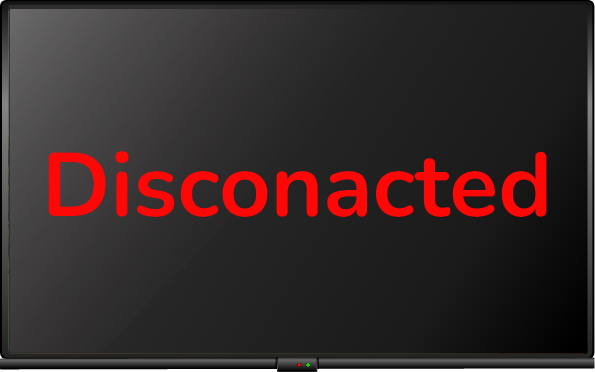
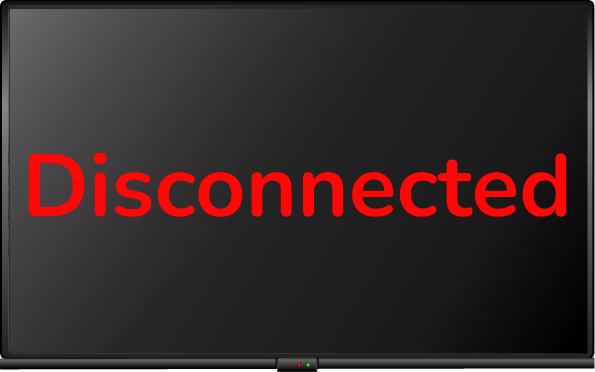
LED image and swal text update

Changed region(s): [[0.0303, 0.3844, 0.9681, 0.5914]]

diff --git a/src/Pages/Components/SwalModules.js b/src/Pages/Components/SwalModules.js
@@ -1,79 +1,71 @@
 import Swal from "sweetalert2";
 import React from "react";
-import Confetti from 'react-confetti'
+import Confetti from "react-confetti";
 import { useDispatch } from "react-redux";
 import { isHurray } from "../../Redux/Action";
 
-export const SwalInitial = ()=>{
-    Swal.fire({
-        title: "You Can't On The Breaker 	&#128542",
-        // showConfirmButton: false,
-        text: "One device is not working properly you have to first disconnect all the devices",
-        buttons: true,
-        confirmButtonColor: "#085CA8",
-        confirmButtonText: "I Understand",
-      });
-     
-}
-export const SwalStarter = ()=>{
+export const SwalInitial = () => {
   Swal.fire({
-      title: "User Task",
-      // showConfirmButton: false,
-      text: "Somewhere in the house a fuse has been switched off. Solve this problem as you have been taught.",
-      buttons: true,
-      confirmButtonColor: "#085CA8",
-      confirmButtonText: "Okay",
-    });
-   
-}
+    title: "You Can't On The Breaker 	&#128542",
+    // showConfirmButton: false,
+    text: "One device is not working properly you have to first disconnect all the devices",
+    buttons: true,
+    confirmButtonColor: "#085CA8",
+    confirmButtonText: "I Understand",
+  });
+};
+export const SwalStarter = () => {
+  Swal.fire({
+    title: "User Task",
+    // showConfirmButton: false,
+    text: "Somewhere in the house a fuse has been switched off. Solve this problem as you have been taught.",
+    buttons: true,
+    confirmButtonColor: "#085CA8",
+    confirmButtonText: "Okay",
+  });
+};
 
+export const SwalHurray = (level, group) => {
+  Swal.fire({
+    title: "Hurry!!  &#128525;",
+    // text: `You've Completed level ${level} of Group ${group}.`,
+    text: `You've Completed this level !`,
 
+    confirmButtonColor: "#085CA8",
+  }).then(function () {});
+};
 
-export const SwalHurray = (level, group)=>{
-  
-    Swal.fire({
-        title: "Hurry!!  &#128525;",
-        // text: `You've Completed level ${level} of Group ${group}.`,
-        text: `You've Completed this level !`,
+export const SwalBreakerOn = () => {
+  Swal.fire({
+    title: "Breaker is on &#128571",
+    text: "Now connect all the devices one by one to check which device is defected",
+    confirmButtonColor: "#085CA8",
+    confirmButtonText: "I Understand",
+  });
+};
 
-        confirmButtonColor: "#085CA8",
-        
-      }).then(function() {
-       
-    });
-     
-}
-
-
-export const SwalBreakerOn = ()=>{  
-    Swal.fire({  
-        title: "Breaker is on &#128571",
-        text: "Now connect all the devices one by one to check which device is defected",
-        confirmButtonColor: "#085CA8",
-      confirmButtonText: "I Understand",
-      });
-}
-
-
-export const SwalDisconnected = ()=>{ 
-    Swal.fire({
-        confirmButtonColor: "#085CA8",
-        confirmButtonText: "I Understand",
-        title: "On the breaker!",
-        text: "You have disconnected all devices of the group from the socket.",
-   
-      });
-}
-
-
-export const SwalBreakerOff = ()=>{
-    Swal.fire({
-        title: "Oops... Breaker is off &#128576;",
-        text: "The device you have just plugged into a socket has a short circuit and that is not safe! First disconnect this device and then on the breaker again",
-        confirmButtonColor: "#085CA8",
-        confirmButtonText: "I Understand",
-   
-      });
-}
-
-
+export const SwalDisconnected = () => {
+  Swal.fire({
+    confirmButtonColor: "#085CA8",
+    confirmButtonText: "I Understand",
+    title: "Push the breaker!",
+    text: "You have disconnected all devices of the group from the socket.",
+  });
+};
+export const SwalDisconnectedCorrupt = () => {
+  Swal.fire({
+    confirmButtonColor: "#085CA8",
+    confirmButtonText: "I Understand",
+    title: "On the breaker!",
+    text: "You have disconnected all devices of the group from the socket.",
+  });
+};
+export const SwalBreakerOff = () => {
+  Swal.fire({
+    title: "Oops... Breaker is off &#128576;",
+    // text: "The device you have just plugged into a socket has a short circuit and that is not safe! First disconnect this device and then on the breaker again",
+    text: "The device you have just plugged into a socket has a short circuit and that is not safe! First disconnect this device and connect all remaining devices and then on the breaker again",
+    confirmButtonColor: "#085CA8",
+    confirmButtonText: "I Understand",
+  });
+};

diff --git a/src/Pages/GroundFloor/Components/RightNavBar.js b/src/Pages/GroundFloor/Components/RightNavBar.js
@@ -28,17 +28,18 @@ import {
   SwalHurray,
   SwalBreakerOn,
   SwalInitial,
+  SwalDisconnectedCorrupt,
 } from "../../Components/SwalModules";
 
 const RightNavBar = (props) => {
   const { id } = useParams();
 
-  console.log(id);
+  // console.log(id);
   const dispatch = useDispatch();
   let navigate = useNavigate();
   const location = useLocation().pathname;
 
-  console.log(location);
+  // console.log(location);
 
   const [showAttic, setShowAttic] = useState(false);
   const [showFirstFloor, setshowFirstFloor] = useState(false);
@@ -368,7 +369,6 @@ const RightNavBar = (props) => {
         props.wholeCorruptDevice === rand
       ) {
         SwalInitial();
-        console.log("hit not location-----------------------------");
       } else {
         props.setFirstGroupBreakerType("red");
         props.setIsFirstGroupBreaker(true);
@@ -513,7 +513,11 @@ const RightNavBar = (props) => {
             props.kitchenOven === "disconnect" &&
             props.kitchenToster === "disconnect"
           ) {
+            // if (props.wholeCorruptDevice === rand) {
+            //   SwalDisconnectedCorrupt();
+            // } else {
             SwalBreakerOn();
+            // }
           }
 
           //start my code for breaker pop up
@@ -1874,7 +1878,7 @@ const RightNavBar = (props) => {
             // setshowGroundFloor(true)
 
             navigate("/ground-floor");
-            console.log("on ground floor");
+            // console.log("on ground floor");
           }}
           onMouseEnter={() => setBtnHover("groundFloor")}
           onMouseLeave={() => setBtnHover("")}
